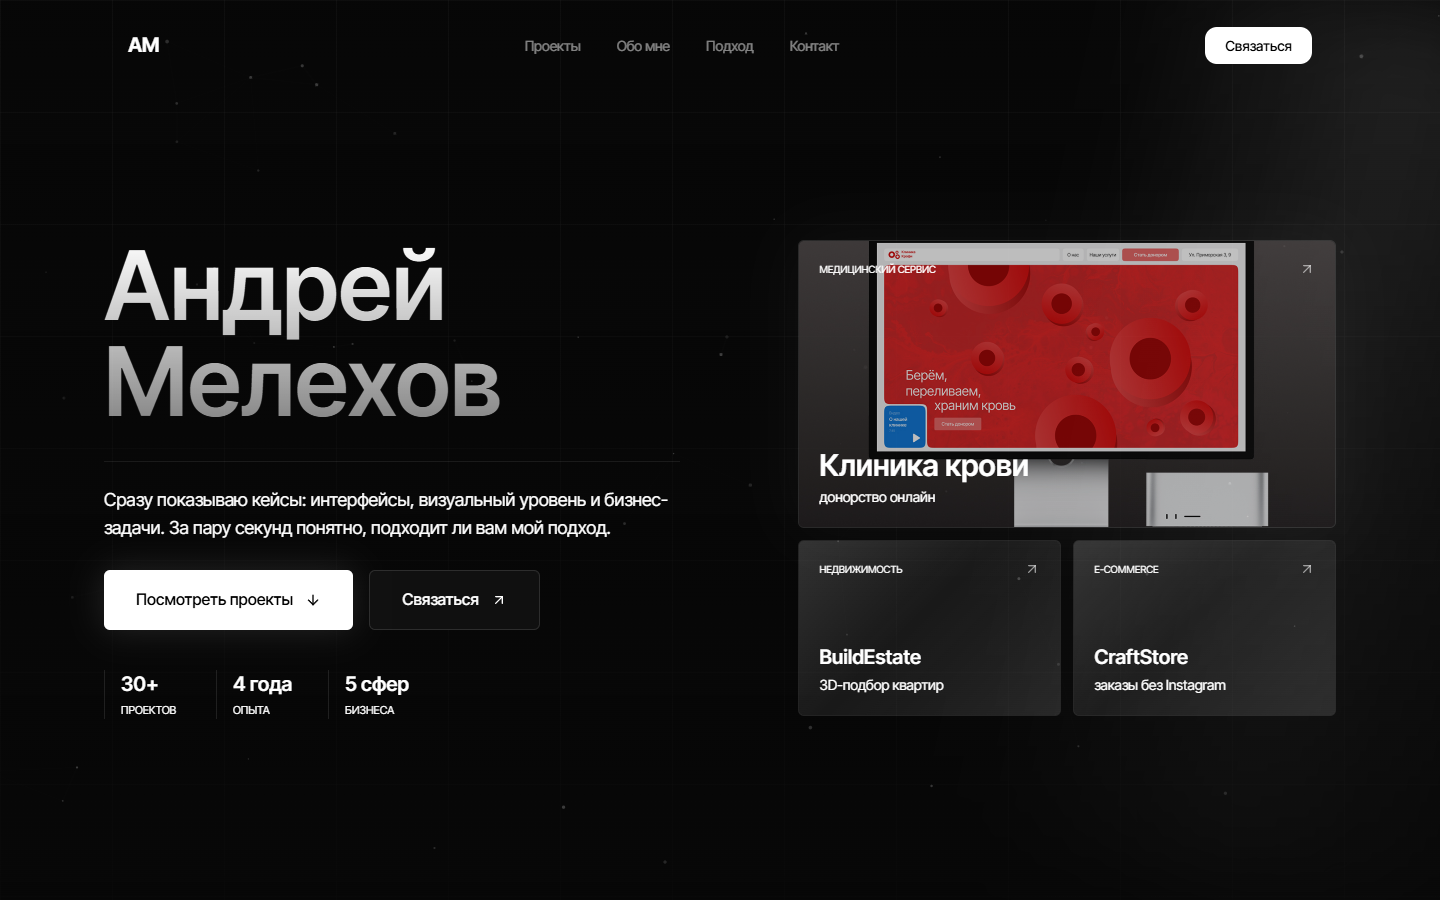
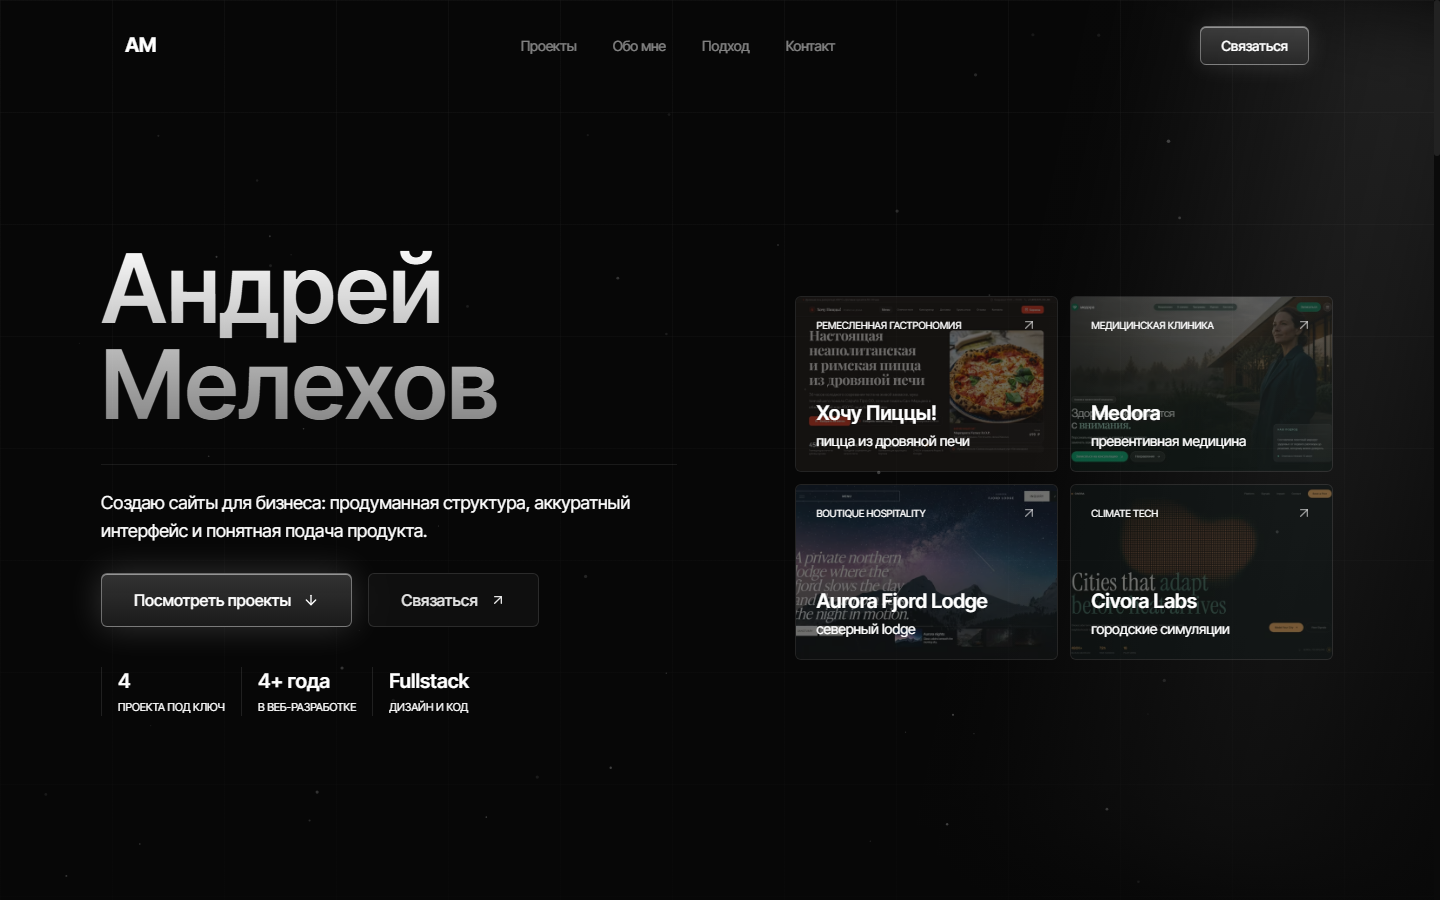
docs: update portfolio preview screenshot and showcase project images in README

diff --git a/README.md b/README.md
@@ -2,7 +2,7 @@
 
 A dark, responsive portfolio website for presenting selected web projects, development approach, and contact options for potential clients.
 
-[View Live Website](https://melekhovv-my-portfolio.preview.layero.ru/)
+[View Live Website](https://melekhovv-my-portfolio.layero.app/)
 
 ![Portfolio homepage preview](public/portfolio-preview.png)
 
@@ -13,11 +13,29 @@ This portfolio is designed to make the first screen useful within a few seconds:
 The site focuses on:
 
 - a strong first-screen portfolio presentation;
-- clean dark visual language with white glow accents;
+- clean dark visual language with luminous frosted glass accents;
 - responsive layouts for desktop and mobile;
 - animated interactions powered by Framer Motion;
-- case preview cards and detailed project sections;
+- case preview cards and detailed project modal sections;
 - a clear contact call to action.
+
+## Featured Projects
+
+| Project | Live Demo | Stack |
+| --- | --- | --- |
+| **Хочу Пиццы!**<br>Artisanal Neapolitan & Roman pizza delivery website | [Live Demo](https://simple-spruce-st7nd1qq.preview.layero.app/) | React, TypeScript, Tailwind CSS, Motion |
+| **Medora Medical Platform**<br>Preventive healthcare clinic website | [Live Demo](https://melekhovv-medora-medicine-website.layero.app/) | Next.js, TypeScript, Tailwind CSS, Framer Motion |
+| **Aurora Fjord Lodge**<br>Nordic boutique hospitality & retreat booking | [Live Demo](https://melekhovv-aurora-fjord-lodge.layero.app/) | Next.js, TypeScript, Tailwind CSS, Framer Motion |
+| **Civora Labs**<br>Climate tech platform for urban simulation | [Live Demo](https://melekhovv-civora-labs-site.layero.app/) | Next.js, TypeScript, Tailwind CSS, Data UI |
+
+<p align="center">
+  <img src="public/projects/hochu-pizza-desktop.png" width="49%" alt="Хочу Пиццы! preview" />
+  <img src="public/projects/medora-desktop.png" width="49%" alt="Medora Medical preview" />
+</p>
+<p align="center">
+  <img src="public/projects/aurora-fjord-lodge-desktop.png" width="49%" alt="Aurora Fjord Lodge preview" />
+  <img src="public/projects/civora-labs-desktop.png" width="49%" alt="Civora Labs preview" />
+</p>
 
 ## Tech Stack
 
@@ -89,6 +107,14 @@ npm run lint
 public/
   portfolio-preview.png
   projects/
+    hochu-pizza-desktop.png
+    hochu-pizza-mobile.png
+    medora-desktop.png
+    medora-mobile.png
+    aurora-fjord-lodge-desktop.png
+    aurora-fjord-lodge-mobile.png
+    civora-labs-desktop.png
+    civora-labs-mobile.png
 src/
   app/
   components/ui/
